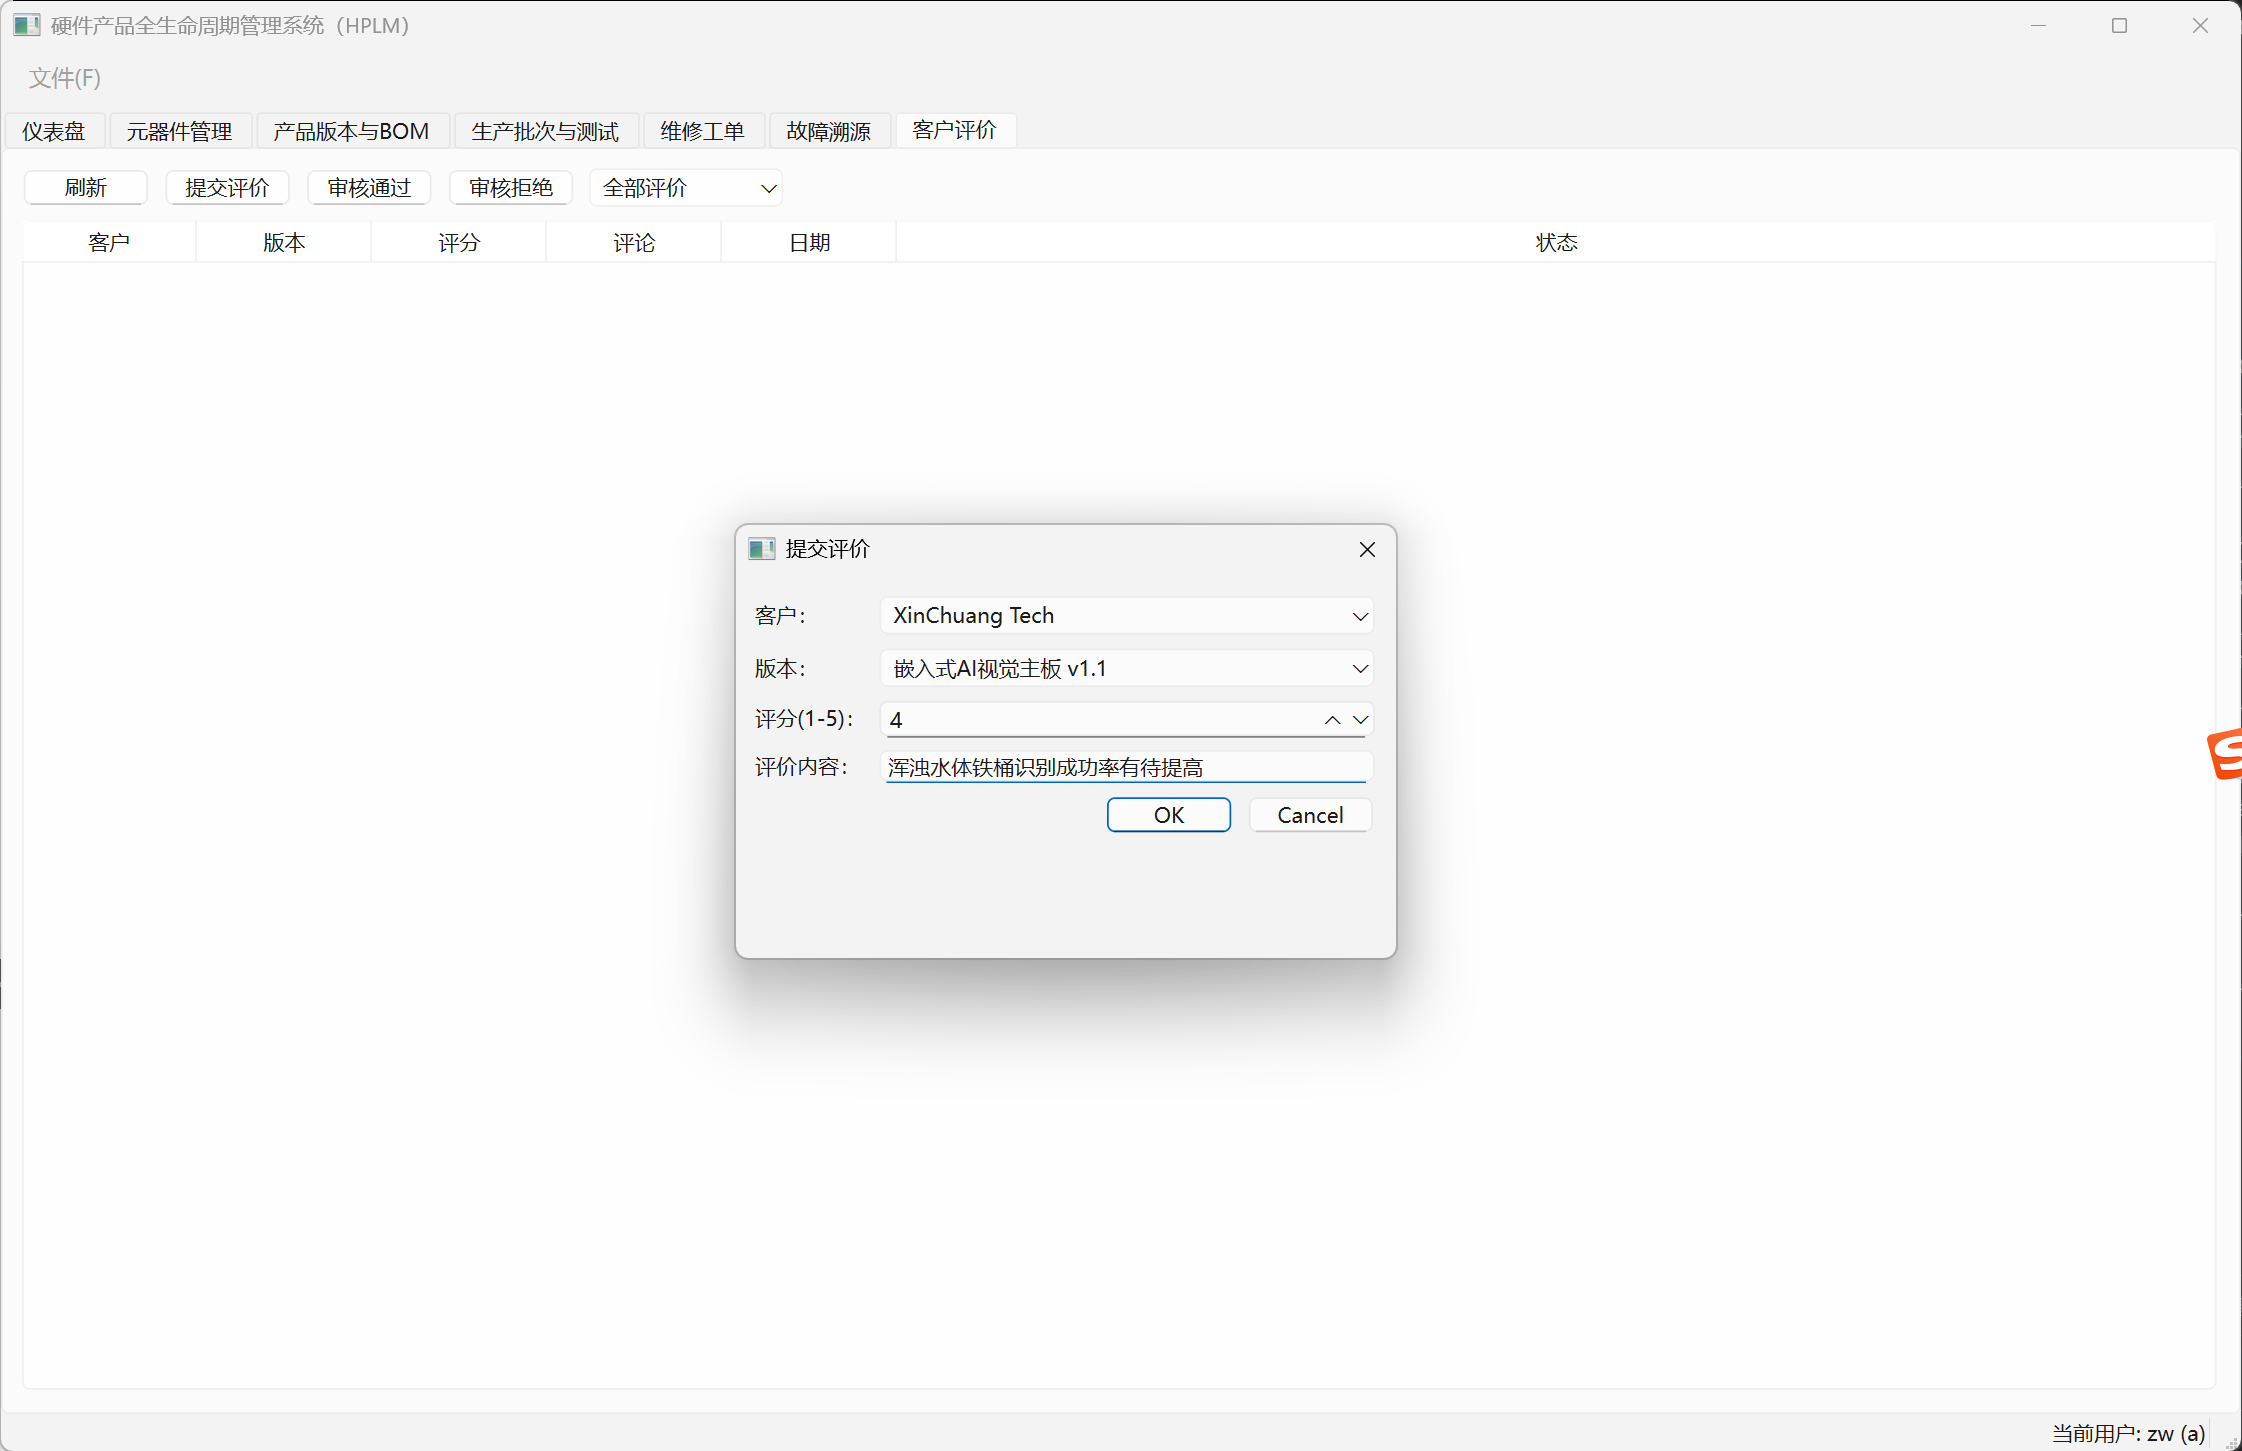
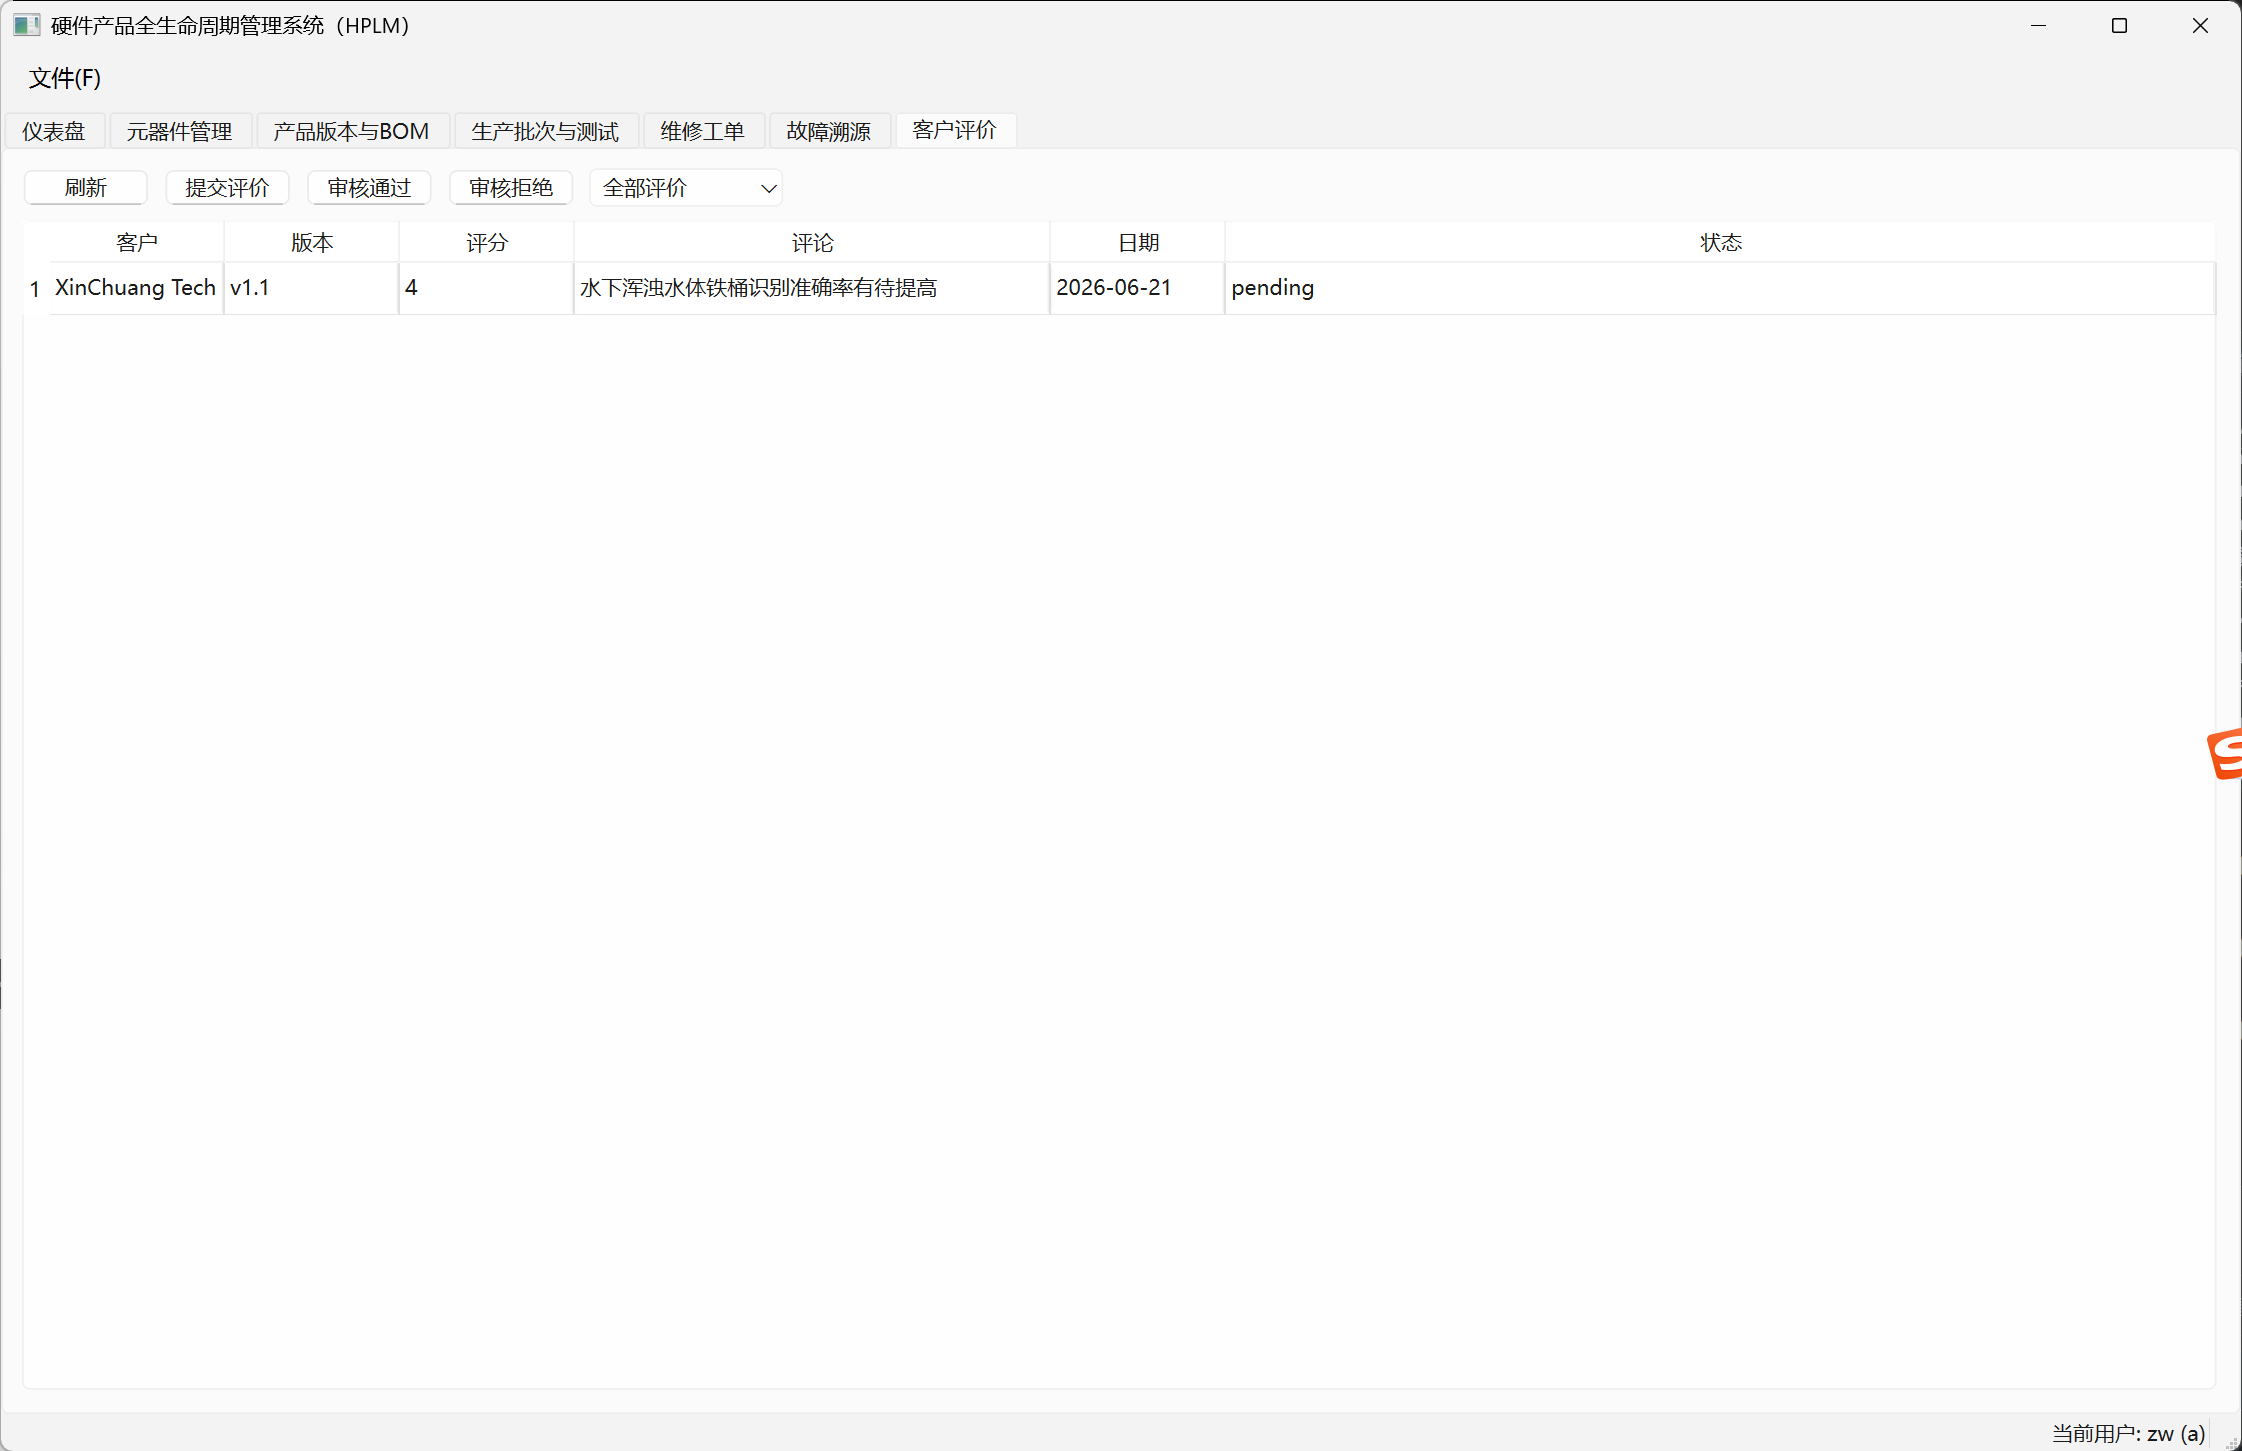
chore: ignore *.mp4, push remaining bugfixes

diff --git a/06_src/src/db/DatabaseManager.cpp b/06_src/src/db/DatabaseManager.cpp
@@ -67,55 +67,20 @@ bool DatabaseManager::execSqlFile(const QString &filePath)
     QString sql = in.readAll();
     file.close();
 
-    // 分离 SQL 语句：按 ; 分割，但保护 $$ ... $$ 及 $tag$ ... $tag$ 块不被拆分
+    // 按 ; 分割 SQL 语句，并过滤空语句和纯注释行
+    // 简化处理：按 ; 拆分，忽略空行
     QStringList statements;
-    int i = 0;
-    int len = sql.length();
-    int stmtStart = 0;
-    bool inDollar = false;
-    QString dollarTag;           // $$ 或 $tag$
-
-    while (i < len) {
-        if (!inDollar && sql[i] == '$') {
-            // 检查是否是 $$ 或 $tag$
-            int j = i + 1;
-            while (j < len && sql[j] != '$') j++;
-            if (j < len && sql[j] == '$') {
-                inDollar = true;
-                dollarTag = sql.mid(i, j - i + 1); // $tag$
-                i = j + 1;
-                continue;
-            }
-        }
-
-        if (inDollar) {
-            // 在 dollar-quoted 块内，找匹配的结束标记
-            if (sql[i] == '$') {
-                // 尝试匹配结束标记
-                if (i + dollarTag.length() <= len &&
-                    sql.mid(i, dollarTag.length()) == dollarTag) {
-                    inDollar = false;
-                    i += dollarTag.length();
-                    continue;
-                }
-            }
-            i++;
+    // 先去掉行注释再分割，避免行内 ; 干扰
+    QString cleaned;
+    for (const QString &line : sql.split('\n')) {
+        QString trimmed = line.trimmed();
+        if (trimmed.startsWith("--") || trimmed.isEmpty()) {
             continue;
         }
-
-        // 不在 dollar 块内，遇到 ; 就是语句边界
-        if (sql[i] == ';') {
-            QString stmt = sql.mid(stmtStart, i - stmtStart).trimmed();
-            if (!stmt.isEmpty() && !stmt.startsWith("--"))
-                statements.append(stmt);
-            stmtStart = i + 1;
-        }
-        i++;
+        cleaned += trimmed + ' ';
     }
-    // 最后一段（无 ; 结尾的）
-    QString lastStmt = sql.mid(stmtStart).trimmed();
-    if (!lastStmt.isEmpty() && !lastStmt.startsWith("--"))
-        statements.append(lastStmt);
+
+    statements = cleaned.split(';', Qt::SkipEmptyParts);
 
     QSqlQuery query(m_db);
     int total = statements.size();
@@ -126,11 +91,14 @@ bool DatabaseManager::execSqlFile(const QString &filePath)
         if (s.isEmpty()) continue;
 
         if (!query.exec(s)) {
+            // 忽略已存在的对象错误（幂等执行）
             QString err = query.lastError().text();
             if (err.contains("already exists") || err.contains("duplicate key")) {
+                // 幂等执行，忽略
                 continue;
             }
-            qWarning() << "SQL execution warning:" << err << "\n  Statement:" << s.left(120);
+            qWarning() << "SQL execution warning:" << err;
+            qWarning() << "Statement:" << s.left(120);
         } else {
             success++;
         }

diff --git a/06_src/src/db/repository/InventoryRepo.cpp b/06_src/src/db/repository/InventoryRepo.cpp
@@ -20,22 +20,13 @@ Inventory InventoryRepo::findByComponentAndWarehouse(int componentId, int wareho
 }
 bool InventoryRepo::addQuantity(int componentId, int warehouseId, int delta, double unitCost) {
     QSqlQuery q(m_db);
-    // 简化：只在入库时更新 avg_cost（delta > 0），出库时不更新
-    if (delta > 0) {
-        q.prepare("INSERT INTO Inventory (component_id, warehouse_id, quantity, reserved_quantity, avg_cost) VALUES (:cid, :wid, :qty, 0, :cost) ON CONFLICT (component_id, warehouse_id) DO UPDATE SET quantity = Inventory.quantity + :qty2, avg_cost = (Inventory.avg_cost * Inventory.quantity + :cost2 * :cost3) / GREATEST(Inventory.quantity + :qty4, 1)");
-        q.bindValue(":qty", delta);
-    } else {
-        q.prepare("INSERT INTO Inventory (component_id, warehouse_id, quantity, reserved_quantity) VALUES (:cid, :wid, :qty, 0) ON CONFLICT (component_id, warehouse_id) DO UPDATE SET quantity = Inventory.quantity + :qty2");
-        q.bindValue(":qty", 0);
-    }
-    q.bindValue(":cid", componentId);
-    q.bindValue(":wid", warehouseId);
-    q.bindValue(":qty2", delta);
-    q.bindValue(":cost", unitCost);
-    q.bindValue(":cost2", unitCost);
-    q.bindValue(":cost3", qAbs(delta));
-    q.bindValue(":qty4", qAbs(delta));
-    if (!q.exec()) { qWarning() << "InventoryRepo::addQuantity failed:" << q.lastError().text(); return false; }
+    q.prepare("INSERT INTO Inventory (component_id, warehouse_id, quantity, avg_cost) VALUES (:cid, :wid, :qty, :cost) ON CONFLICT (component_id, warehouse_id) DO UPDATE SET quantity = Inventory.quantity + :qty2, avg_cost = CASE WHEN :qty3 < 0 THEN Inventory.avg_cost ELSE (Inventory.avg_cost * Inventory.quantity + :cost2 * :cost3) / GREATEST(Inventory.quantity + :qty4, 1) END");
+    q.bindValue(":cid", componentId); q.bindValue(":wid", warehouseId);
+    q.bindValue(":qty", delta > 0 ? delta : 0); q.bindValue(":qty2", delta);
+    q.bindValue(":qty3", delta); q.bindValue(":qty4", delta);
+    q.bindValue(":cost", unitCost); q.bindValue(":cost2", unitCost);
+    q.bindValue(":cost3", delta);
+    if (!q.exec()) { qWarning() << "InventoryRepo::addQuantity" << q.lastError().text(); return false; }
     return true;
 }
 bool InventoryRepo::reserveQuantity(int componentId, int warehouseId, int qty) {

diff --git a/06_src/src/db/repository/ProductFeedbackRepo.cpp b/06_src/src/db/repository/ProductFeedbackRepo.cpp
@@ -10,16 +10,6 @@ ProductFeedback ProductFeedbackRepo::rowToFeedback(const QSqlQuery &q) {
     f.customerName=q.value("customer_name").toString(); f.versionNumber=q.value("version_number").toString();
     return f;
 }
-QList<ProductFeedback> ProductFeedbackRepo::findAll() {
-    QList<ProductFeedback> list; QSqlQuery q(m_db);
-    q.exec("SELECT pf.*, c.name AS customer_name, pv.version_number "
-           "FROM ProductFeedback pf "
-           "JOIN Customer c ON pf.customer_id = c.customer_id "
-           "JOIN ProductVersion pv ON pf.version_id = pv.version_id "
-           "ORDER BY pf.feedback_date DESC");
-    while (q.next()) list.append(rowToFeedback(q));
-    return list;
-}
 QList<ProductFeedback> ProductFeedbackRepo::findByVersion(int versionId) {
     QList<ProductFeedback> list; QSqlQuery q(m_db);
     q.prepare("SELECT pf.*, c.name AS customer_name, pv.version_number FROM ProductFeedback pf JOIN Customer c ON pf.customer_id=c.customer_id JOIN ProductVersion pv ON pf.version_id=pv.version_id WHERE pf.version_id=:vid AND pf.status='approved' ORDER BY pf.feedback_date DESC");

diff --git a/06_src/src/ui/ProductionBatchPage.cpp b/06_src/src/ui/ProductionBatchPage.cpp
@@ -17,7 +17,6 @@
 #include <QComboBox>
 #include <QLabel>
 #include <QDate>
-#include <QDebug>
 
 ProductionBatchPage::ProductionBatchPage(QSqlDatabase &db, QWidget *p)
     : QWidget(p), m_db(db)
@@ -64,12 +63,7 @@ void ProductionBatchPage::refresh()
 {
     ProductionBatchRepo repo(m_db);
     QList<ProductionBatch> list = repo.findAll();
-    qDebug() << "ProductionBatchPage::refresh() found" << list.size() << "batches";
-
     m_batchTable->setRowCount(0);
-    m_detailTable->setRowCount(0);
-    m_testTable->setRowCount(0);
-
     for (int i = 0; i < list.size(); i++) {
         const auto &b = list[i];
         m_batchTable->insertRow(i);
@@ -81,7 +75,6 @@ void ProductionBatchPage::refresh()
         m_batchTable->setItem(i, 5, new QTableWidgetItem(b.qualityStatus));
         m_batchTable->setItem(i, 6, new QTableWidgetItem(b.productionDate.toString("yyyy-MM-dd")));
     }
-    m_batchTable->viewport()->update();
 }
 
 void ProductionBatchPage::onCreateBatch()

diff --git a/06_src/src/db/repository/ProductionBatchRepo.cpp b/06_src/src/db/repository/ProductionBatchRepo.cpp
@@ -15,11 +15,7 @@ ProductionBatch ProductionBatchRepo::rowToBatch(const QSqlQuery &q) {
 }
 QList<ProductionBatch> ProductionBatchRepo::findAll() {
     QList<ProductionBatch> list; QSqlQuery q(m_db);
-    bool ok = q.exec("SELECT pb.*, pv.version_number, p.name AS product_name FROM ProductionBatch pb JOIN ProductVersion pv ON pb.version_id=pv.version_id JOIN Product p ON pv.product_id=p.product_id ORDER BY pb.production_date DESC");
-    if (!ok) {
-        qWarning() << "ProductionBatchRepo::findAll() failed:" << q.lastError().text();
-        return list;
-    }
+    q.exec("SELECT pb.*, pv.version_number, p.name AS product_name FROM ProductionBatch pb JOIN ProductVersion pv ON pb.version_id=pv.version_id JOIN Product p ON pv.product_id=p.product_id ORDER BY pb.production_date DESC");
     while(q.next()) list.append(rowToBatch(q));
     return list;
 }

diff --git a/06_src/src/ui/FeedbackPage.cpp b/06_src/src/ui/FeedbackPage.cpp
@@ -62,11 +62,16 @@ void FeedbackPage::refresh()
 {
     ProductFeedbackRepo repo(m_db);
     QList<ProductFeedback> list;
-
     if (m_filterCombo->currentData().toString() == "low")
         list = repo.lowRated(3);
-    else
-        list = repo.findAll();
+    else {
+        // 查全部：遍历所有customer和version
+        ProductVersionRepo verRepo(m_db);
+        QList<ProductVersion> vers = verRepo.findByProduct(1); // 简化
+        for (const ProductVersion &v : vers) {
+            list.append(repo.findByVersion(v.versionId));
+        }
+    }
 
     m_feedbackTable->setRowCount(0);
     for (int i = 0; i < list.size(); i++) {

diff --git a/06_src/src/db/repository/ProductFeedbackRepo.h b/06_src/src/db/repository/ProductFeedbackRepo.h
@@ -22,7 +22,6 @@ class ProductFeedbackRepo : public QObject {
     Q_OBJECT
 public:
     explicit ProductFeedbackRepo(QSqlDatabase &db, QObject *p = nullptr);
-    QList<ProductFeedback> findAll();
     QList<ProductFeedback> findByVersion(int versionId);
     QList<ProductFeedback> findByCustomer(int customerId);
     QList<ProductFeedback> lowRated(double threshold = 3.0);
